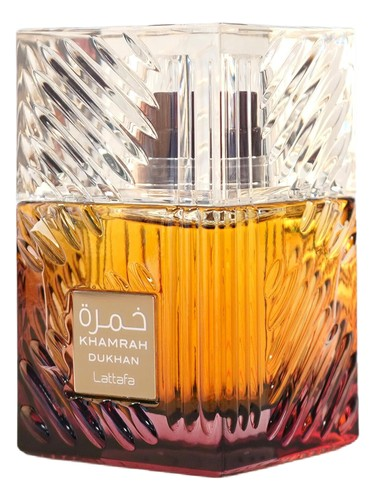
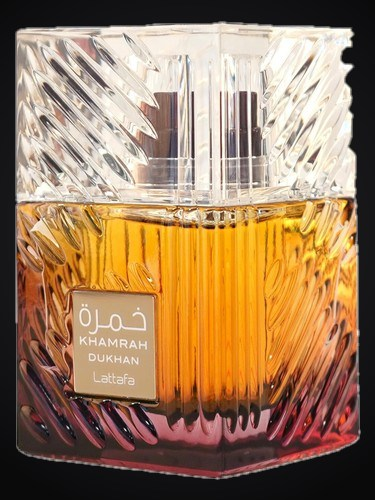
Alcove: take the bottles off their white paper and set the shelf on black
Catalogue photography arrives on white, and a grid of white rectangles on a
near-black page looked cheap. All 29 shots are now keyed onto a radial ground
that matches the tile, so each bottle floats with no visible edge.

Baked into the JPEGs rather than shipped as transparent PNGs: photographic PNGs
with alpha run to several megabytes across the set against ~25KB each, and this
app has to work offline. There is no light theme, so a dark ground is never
wrong. The cost is that .al-shot's background and the script's EdgeR/G/B have
to stay in step, and both now say so.

scripts/darken-bottle-shots.ps1 does the work (C# inline; a per-pixel
PowerShell loop over the set runs into minutes). Three things it had to survive,
all found by looking at the output rather than by reasoning:

- a white LABEL inside the bottle. The fill is border-seeded and spreads only
  through connected pixels, so Zara's cream label lives. A brightness threshold
  would have holed every label in the set.
- CLEAR GLASS. Khamrah's crystal cap is genuinely the same 255 as the paper
  behind it and the fill walked inside, leaving hard black holes. No threshold
  fixes that: it takes a morphological close for the thin channels, then a
  per-row span fill on the largest blob, bottles being horizontally convex.
- SOFT SHADOWS. A shadowed source leaves a pale band, and span fill makes it
  worse because the shadow is foreground. No single threshold suits both a
[…]

Changed region(s): [[0.0, 0.0, 1.0, 1.0]]

diff --git a/css/styles.css b/css/styles.css
@@ -1138,12 +1138,27 @@ select.input { width: 100%; max-width: 100%; text-overflow: ellipsis; padding-ri
 /* --- Alcove: the shelf ---------------------------------------------------- */
 /* A collection should look like a collection, so Collected and Coveted are
    shelves of bottles rather than rows of text. */
-.al-grid { display: grid; grid-template-columns: repeat(3, 1fr); gap: 9px; margin-top: 14px; }
+/* The Collected shelf. The card chrome is deliberately gone: the bottle shots
+   are keyed onto the same near-black ground the page uses (see
+   scripts/darken-bottle-shots.ps1), so a border and a raised panel around each
+   one would draw a box around something meant to float. What is left is the
+   bottle, its name, and air. */
+.al-grid { display: grid; grid-template-columns: repeat(3, 1fr); gap: 16px 11px; margin-top: 16px; }
 .al-tile { position: relative; display: block; width: 100%; text-align: left; padding: 0;
-  background: var(--surface); border: 1px solid var(--line); border-radius: 16px; overflow: hidden; }
-.al-tile:active { transform: scale(.985); }
-.al-shot { position: relative; aspect-ratio: 3 / 4; width: 100%; overflow: hidden; background: var(--surface-2); }
+  background: none; border: 0; border-radius: 14px; overflow: hidden;
+  transition: transform .18s var(--ease); }
+.al-tile:active { transform: scale(.97); }
+
+/* Matches the rim colour the shots are composited onto, so the photograph has
+   no visible edge — it dissolves into the page instead of sitting in a frame.
+   Keep this in step with EdgeR/G/B in scripts/darken-bottle-shots.ps1. */
+.al-shot { position: relative; aspect-ratio: 3 / 4; width: 100%; overflow: hidden;
+  background: #0A0A0B; border-radius: 12px; }
 .al-shot img { width: 100%; height: 100%; object-fit: cover; display: block; }
+/* A hairline of light down the top edge, the way a bottle catches a studio key
+   light. Inset so it reads as sheen on the image rather than a border. */
+.al-shot::after { content: ''; position: absolute; inset: 0; border-radius: 12px; pointer-events: none;
+  box-shadow: inset 0 1px 0 rgba(233,228,218,.07), inset 0 -36px 44px -32px rgba(0,0,0,.8); }
 
 /* Fallback when there is no photograph: a monogram, generated from the name so
    it is stable per bottle. Deliberate-looking beats a broken image icon. */
@@ -1151,21 +1166,39 @@ select.input { width: 100%; max-width: 100%; text-overflow: ellipsis; padding-ri
   font-family: 'Cinzel', Georgia, serif; font-size: 34px; letter-spacing: .06em; color: rgba(233,228,218,.82); }
 .al-mono::after { content: ''; position: absolute; inset: 0; box-shadow: inset 0 -40px 50px -30px rgba(0,0,0,.65); }
 
-.al-tile-body { padding: 10px 11px 12px; }
-.al-tile-name { font-weight: 650; font-size: 14px; line-height: 1.25;
+/* Cinzel is already bundled for the wordmark; using it for the bottle names ties
+   the shelf to the ALCOVE masthead and reads like a label rather than a list. */
+.al-tile-body { padding: 9px 2px 0; }
+/* Two lines are reserved whether or not the name needs them, so the house and
+   badges land on the same baseline across a row. Ragged rows are the fastest
+   way to make a grid look accidental. */
+.al-tile-name { font-family: 'Cinzel', Georgia, serif; font-weight: 600; font-size: 12.5px;
+  line-height: 1.3; letter-spacing: .02em; color: var(--text); min-height: 2.6em;
   display: -webkit-box; -webkit-line-clamp: 2; -webkit-box-orient: vertical; overflow: hidden; }
-.al-tile-house { font-size: 11px; color: var(--muted); text-transform: uppercase; letter-spacing: .06em;
-  margin-top: 3px; white-space: nowrap; overflow: hidden; text-overflow: ellipsis; }
+.al-tile-house { font-size: 9.5px; color: var(--gold-dim); text-transform: uppercase; letter-spacing: .12em;
+  margin-top: 4px; white-space: nowrap; overflow: hidden; text-overflow: ellipsis; opacity: .75; }
 .al-tile-badges { display: flex; flex-wrap: wrap; gap: 4px; margin-top: 7px; }
-.al-badge { font-size: 9.5px; text-transform: uppercase; letter-spacing: .05em; padding: 2px 6px;
-  border-radius: 5px; background: var(--surface-3); color: var(--muted); }
-.al-badge.dupe { background: rgba(245,197,66,.13); color: var(--gold); }
-.al-badge.dupe.ok { background: rgba(99,201,154,.15); color: var(--green); }
-.al-badge.price { background: transparent; color: var(--text); padding-left: 0; }
-.al-badge.none { background: rgba(255,255,255,.06); color: var(--muted); }
-.al-tile-flag { position: absolute; top: 8px; right: 8px; width: 26px; height: 26px; border-radius: 50%;
-  display: flex; align-items: center; justify-content: center; font-size: 14px;
-  background: rgba(10,10,11,.6); backdrop-filter: blur(6px); color: var(--accent); }
+/* Default badge is bare text, not a pill. The wear is already a filter at the
+   top of the screen, so a grey chip per tile was repeating a control as
+   decoration. Only the badges that carry news — a dupe, a price, missing
+   research — get any weight. */
+.al-badge { font-size: 9px; text-transform: uppercase; letter-spacing: .09em; padding: 0;
+  border-radius: 5px; background: none; color: var(--muted); opacity: .62; }
+.al-badge.dupe { background: none; color: var(--gold); opacity: .85; }
+.al-badge.dupe.ok { background: none; color: var(--green); opacity: .9; }
+.al-badge.price { background: none; color: var(--text); opacity: 1;
+  font-family: 'Cinzel', Georgia, serif; letter-spacing: .04em; font-size: 10.5px; }
+.al-badge.none { background: none; color: var(--muted); opacity: .5; font-style: italic;
+  text-transform: none; letter-spacing: .02em; }
+/* "Add your own photograph." It is a shortcut, not a status worth announcing —
+   most bottles legitimately wear the catalogue shot — so it sits at low opacity
+   and only asserts itself on press. A lit chip on every tile was reading as a
+   badge of something wrong. */
+.al-tile-flag { position: absolute; top: 7px; right: 7px; width: 24px; height: 24px; border-radius: 50%;
+  display: flex; align-items: center; justify-content: center; font-size: 12px;
+  background: rgba(10,10,11,.35); backdrop-filter: blur(6px);
+  color: var(--gold); opacity: .28; transition: opacity .16s var(--ease); }
+.al-tile:active .al-tile-flag, .al-tile-flag:active { opacity: .95; }
 .al-photo-row { display: flex; gap: 14px; align-items: center; margin-bottom: 14px; }
 .al-photo-prev { position: relative; width: 84px; height: 112px; flex: none; border-radius: 12px;
   overflow: hidden; background: var(--surface-2); }

diff --git a/js/shell.js b/js/shell.js
@@ -20,7 +20,7 @@ const $app = () => document.getElementById('app');
 const chrome = () => document.getElementById('chrome');
 let lockTimer = null;
 const AUTO_LOCK_MS = 5 * 60 * 1000;
-export const APP_VERSION = '58';
+export const APP_VERSION = '59';
 
 // Wide, sharp bat emblem (viewBox 0 0 300 86), symmetric about x=150.
 // Sanctum mark — a minimal pointed arch (a doorway to a private room),

diff --git a/sw.js b/sw.js
@@ -1,5 +1,5 @@
 // sw.js — offline cache. Bump CACHE when you change app files.
-const CACHE = 'sanctum-v58';
+const CACHE = 'sanctum-v59';
 const ASSETS = [
   './',
   './index.html',

diff --git a/ARCHITECTURE.md b/ARCHITECTURE.md
@@ -116,6 +116,8 @@ js/
                     weeks, monthly + calendar-year summaries
                     (fixed/variable, per-category, share vs paid)
 scripts/            Node scripts run by GitHub Actions (never shipped to browser)
+                    + darken-bottle-shots.ps1, a local one-off that keys
+                    catalogue shots onto Alcove's dark ground (§8f)
 data/               generated data served same-origin (concerts, artist cache,
                     perfume reference)
 img/perfumes/       one catalogue JPEG per reference bottle, same-origin so the
@@ -579,6 +581,17 @@ shelf into a stack of one- and two-bottle fragments. `load()` still sorts by
 house then name, so bottles from the same maison sit together without labels
 doing it.
 
+The tiles carry **no card chrome** — no panel, no border. Once the shots are
+keyed onto the page's own ground (below), a frame would be drawing a box around
+something meant to float. Names are set in Cinzel, already bundled for the
+wordmark, which ties the shelf to the masthead. Badges are bare text rather than
+pills, and the wear badge is the quietest of them: it repeats a filter that is
+already at the top of the screen, so as a grey chip on every tile it was
+decoration. Only a dupe, a price or missing research gets any weight. The
+name reserves two lines whether or not it needs them, so a row's houses and
+badges share a baseline — ragged rows are the quickest way to make a grid look
+accidental.
+
 Each tile's picture falls back in order of what is actually trustworthy:
 
 1. **a photo the user added** — theirs, stored on the device, works offline. It
@@ -602,6 +615,39 @@ same-origin GET, so the shelf keeps its pictures **offline**, which is the whole
 premise of the app; and it costs ~700KB for the current library. They are
 deliberately *not* in `sw.js` ASSETS — precaching every bottle would make install
 heavier for images the user may never scroll to.
+
+**The shots are keyed onto a dark ground before they are committed.** Catalogue
+photography comes on white paper, and a grid of white rectangles on a near-black
+page looked cheap — the user's words were that it should be "classy, sexy".
+`scripts/darken-bottle-shots.ps1` takes each one off the paper and composites it
+onto a radial ground matching the tile, so the photograph has no visible edge.
+
+Baked in rather than shipped as transparent PNGs: photographic PNGs with alpha
+run to several megabytes across the set against ~25KB each as JPEG, and this app
+must work offline. There is no light theme — `css/styles.css` defines one
+near-black palette — so a baked dark ground is never wrong. The trade is that
+`.al-shot`'s background and the script's `EdgeR/G/B` constants must stay in
+step; both carry a comment saying so.
+
+Three things the script has to survive, all found by looking at the output:
+
+- **A white label inside the bottle.** The fill is seeded from the border and
+  only spreads through connected pixels, so Zara's cream label survives. A plain
+  brightness threshold would have punched a hole through every label in the set.
+- **Clear glass.** Khamrah's crystal cap really is the same 255 as the paper
+  behind it, so the fill walked inside and left hard black holes. No threshold
+  fixes that. A morphological close seals thin channels, and then a per-row span
+  fill — bottles are horizontally convex — declares everything between the
+  silhouette's edges to be bottle. Run on the largest blob only, so a speck of
+  keying noise cannot stretch a row across the frame.
+- **Soft drop shadows.** A source with a shadow leaves a pale band wherever the
+  gradient falls below the threshold, and span fill makes it worse because the
+  shadow *is* foreground. There is no threshold that suits both a shadowed
+  source and a silver cap. Fix it at the crop instead: `em5-aghori` is cropped to
+  the bottle's measured bounding box with no margin on the shadowed sides.
+
+The script is **not idempotent** — a second pass keys against a background that
+is no longer white. Re-run it on pristine downloads.
 
 How they were sourced, because guessing here produces the wrong bottle and that
 is worse than no bottle (CLAUDE.md rule 3). Fragrantica's **brand index pages**

diff --git a/README.md b/README.md
@@ -25,7 +25,7 @@ Keyring and Strongbox never leave the phone.
 | **Strongbox** | IDs and records, encrypted under their own passcode/biometric vault. |
 | **Hearth** | Everything two people run together, in one place with two tabs. **Lists** — shopping lists by store, with priority, due dates, notes and links. **Money** — shared expenses split by income ratio (or 50/50 per category, with categories you can add and edit yourself), fixed costs that post themselves, and one number for who owes whom; settle up in a tap. Weekly, monthly and calendar-year summaries break spending down by category with both your shares — tap any category to see every expense in it for that period. Optional **real-time sharing** between two phones, end-to-end encrypted; one pairing covers both tabs — see [SETUP-SYNC.md](SETUP-SYNC.md). |
 | **Slate** | Personal tasks with dates you can just type — "pay rent friday", "gym every monday", `!` / `!!` for priority. Grouped by when they're due; repeating tasks roll forward when you tick them. Stays on your phone — not shared. |
-| **Alcove** | A perfume collection on two shelves — **Collected** and **Coveted** — shown as bottles, not a list. Add one with just a name, a house and a shelf — bottles in the shared library arrive with their own photo, or you can shoot your own, which always wins over the catalogue shot. (Removing your photo brings the catalogue one back.) Wear, original-or-dupe, notes and where to buy are meant to arrive from research. Records sellers with price and *your* authenticity judgement, and gathers decant sources in one place. Bottles from the houses you collect — Lattafa, Afnan, Rasasi and the rest — already carry a dupe confirmation, a price and a short review summary from the shared library, so they fill themselves in. For anything that isn't there, **Ask about this one** opens a pre-filled request on GitHub: one tap, nothing to copy, and the answer arrives as a library update. Stays on your phone — not shared. |
+| **Alcove** | A perfume collection on two shelves — **Collected** and **Coveted** — shown as bottles, not a list. Add one with just a name, a house and a shelf — bottles in the shared library arrive with their own photo, cut off its catalogue background and set on the app's own black so the bottle floats rather than sitting in a white box. Shoot your own if you prefer; yours always wins over the catalogue shot, and removing it brings the catalogue one back. Wear, original-or-dupe, notes and where to buy are meant to arrive from research. Records sellers with price and *your* authenticity judgement, and gathers decant sources in one place. Bottles from the houses you collect — Lattafa, Afnan, Rasasi and the rest — already carry a dupe confirmation, a price and a short review summary from the shared library, so they fill themselves in. For anything that isn't there, **Ask about this one** opens a pre-filled request on GitHub: one tap, nothing to copy, and the answer arrives as a library update. Stays on your phone — not shared. |
 | **Concerts** | Every gig across New York & New Jersey from today through the end of the third month ahead, plus artists you follow. Refreshed four times a day. |
 | Movies / Sports / Stocks | Planned. |
 
